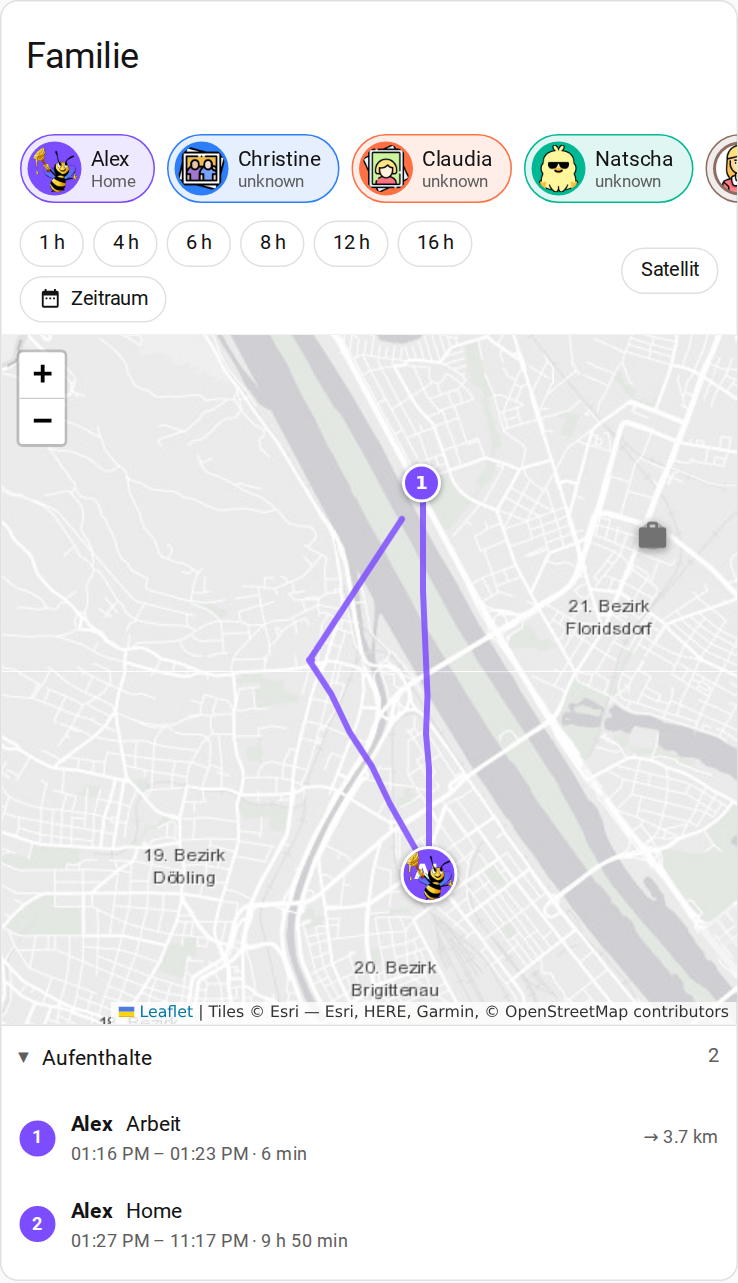
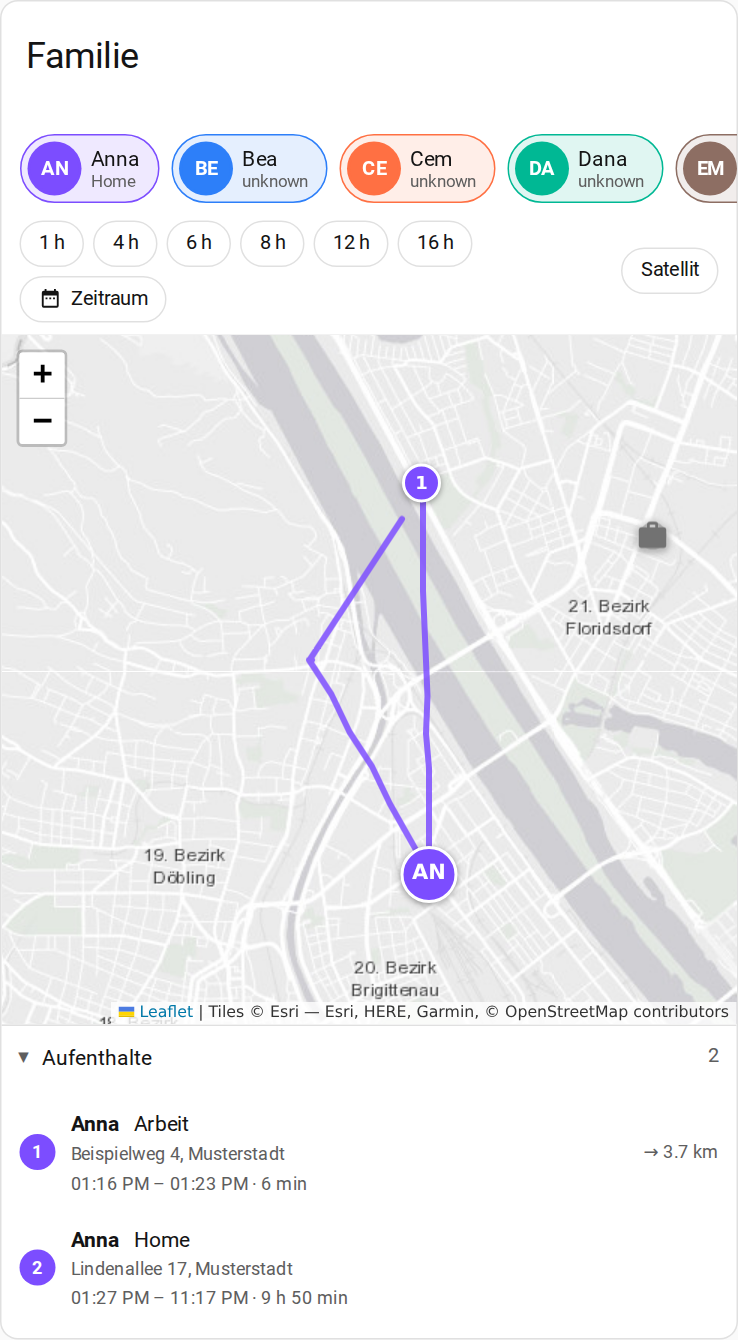
Adresse auch in Zonen, Chip-Rückfall, neue Screenshots, kürzeres README
Die Aufenthaltsliste zeigte innerhalb einer Zone nur deren Namen. Das war so
gedacht -- eine Zone trägt ja schon einen Namen, und jede Auflösung kostet eine
Nominatim-Anfrage -- führte aber dazu, dass die im README versprochene Adresse
bei Daten, die ausschließlich aus Zonen-Aufenthalten bestehen, nie auftauchte.
Neue Option zone_addresses: die Adresse steht dann als zweite Zeile unter dem
Zonennamen. Voreingestellt aus, damit niemand ungefragt Anfragen erzeugt.

Der Chip fällt jetzt wie der Kartenmarker auf die Initialen zurück. Lud das
Profilbild nicht, zeichnete der Browser sein Symbol für ein kaputtes Bild --
dieselbe Lücke, die im Marker schon geschlossen war.

Die Screenshots sind neu aufgenommen, mit erfundenen Namen und Adressen: in der
Doku haben weder die Namen der Familie noch ihre Wohnadresse etwas verloren.
Ersetzt wurde im Browser vor der Aufnahme, an Home Assistant selbst ist nichts
geändert.

Das README ist von 141 auf 117 Zeilen gekürzt. Der ASCII-Block mit der
Beispielliste ist entfallen: Er stimmte nicht mit der Darstellung in der App
überein, und die beiden Screenshots zeigen dasselbe genauer.

diff --git a/src/family-tracking-card.ts b/src/family-tracking-card.ts
@@ -521,9 +521,11 @@ export class FamilyTrackingCard extends LitElement {
   private async _resolveLabels(token: number): Promise<void> {
     if (this._config?.geocode === false) return;
 
+    const includeZones = this._config?.zone_addresses ?? DEFAULTS.zone_addresses;
+
     for (const track of Object.values(this._tracks)) {
       for (const stay of staysOf(track.segments)) {
-        if (stay.zone) continue;
+        if (stay.zone && !includeZones) continue;
         const key = cacheKeyFor(stay.lat, stay.lon);
         if (this._labels[key]) continue;
 
@@ -540,6 +542,18 @@ export class FamilyTrackingCard extends LitElement {
   private _labelOf(stay: Stay): string {
     if (stay.zone) return this._zoneName(stay.zone);
     return this._labels[cacheKeyFor(stay.lat, stay.lon)] ?? formatCoordinates(stay.lat, stay.lon);
+  }
+
+  /**
+   * The street address for a stay whose headline is already a zone name, or
+   * nothing. Only ever filled when `zone_addresses` is on, and only once the
+   * lookup has come back -- the row renders without it in the meantime rather
+   * than jumping once it arrives.
+   */
+  private _addressOf(stay: Stay): string | undefined {
+    if (!stay.zone) return undefined;
+    if (!(this._config?.zone_addresses ?? DEFAULTS.zone_addresses)) return undefined;
+    return this._labels[cacheKeyFor(stay.lat, stay.lon)];
   }
 
   /** `home` and `not_home` are technical states; show what a zone is called. */
@@ -871,9 +885,8 @@ export class FamilyTrackingCard extends LitElement {
         aria-pressed=${visible ? "true" : "false"}
       >
         <span class="avatar">
-          ${picture
-            ? html`<img src=${picture} alt="" />`
-            : html`<span>${initials(this._name(person))}</span>`}
+          <span>${initials(this._name(person))}</span>
+          ${picture ? html`<img src=${picture} alt="" />` : nothing}
         </span>
         <span class="person-text">
           <span class="person-name">${this._name(person)}</span>
@@ -926,6 +939,9 @@ export class FamilyTrackingCard extends LitElement {
                   <span class="stay-person">${this._name(entry.person)}</span>
                   ${this._labelOf(entry.stay)}
                 </span>
+                ${this._addressOf(entry.stay)
+                  ? html`<span class="stay-address">${this._addressOf(entry.stay)}</span>`
+                  : nothing}
                 <span class="stay-meta">
                   ${formatSpan(entry.stay.start, entry.stay.end, locale)} ·
                   ${formatDuration(entry.stay.end - entry.stay.start)}
@@ -1006,6 +1022,7 @@ export class FamilyTrackingCard extends LitElement {
     }
 
     .avatar {
+      position: relative;
       width: 32px;
       height: 32px;
       border-radius: 50%;
@@ -1021,7 +1038,12 @@ export class FamilyTrackingCard extends LitElement {
       box-shadow: 0 0 0 2px var(--ftc-person-color, var(--ftc-track-color));
     }
 
+    /* Same as the map marker: the initials sit underneath and the picture goes
+       over them, so a picture that fails to load leaves a readable chip rather
+       than a broken image icon. */
     .avatar img {
+      position: absolute;
+      inset: 0;
       width: 100%;
       height: 100%;
       object-fit: cover;
@@ -1313,9 +1335,16 @@ export class FamilyTrackingCard extends LitElement {
     }
 
     .stay-meta,
+    .stay-address,
     .stay-trip {
       font-size: 12px;
       color: var(--secondary-text-color);
+    }
+
+    .stay-address {
+      overflow: hidden;
+      text-overflow: ellipsis;
+      white-space: nowrap;
     }
 
     .hint {

diff --git a/src/const.ts b/src/const.ts
@@ -326,6 +326,8 @@ export const DEFAULTS = {
   // Off by default: an existing card must not suddenly grow circles on its map.
   show_zones: false,
   geocode: true,
+  // Aus: der Zonenname genügt meistens, und jede Auflösung kostet eine Anfrage.
+  zone_addresses: false,
 };
 
 /** A tile source entered by hand, in the spirit of map-card's tile_layer_url. */
@@ -497,6 +499,7 @@ export const EDITOR_SCHEMA = [
       { name: "show_stays", selector: { boolean: {} } },
       { name: "show_zones", selector: { boolean: {} } },
       { name: "geocode", selector: { boolean: {} } },
+      { name: "zone_addresses", selector: { boolean: {} } },
     ],
   },
   { name: "geocode_email", selector: { text: { type: "email" } } },

diff --git a/src/types.ts b/src/types.ts
@@ -76,6 +76,12 @@ export interface FamilyTrackingCardConfig extends LovelaceCardConfig {
   /** Zones the map leaves out, stored the same way round as `hidden_persons`. */
   hidden_zones?: string[];
   geocode?: boolean;
+  /**
+   * Also resolve an address for stays that already sit inside a zone, shown as
+   * a second line under the zone name. Off by default: a zone already carries
+   * the name the user gave it, and every extra lookup costs a Nominatim request.
+   */
+  zone_addresses?: boolean;
   /** Optional contact address appended to Nominatim requests (their usage policy). */
   geocode_email?: string;
 }

diff --git a/src/editor.ts b/src/editor.ts
@@ -32,6 +32,7 @@ const LABELS: Record<string, string> = {
   show_stays: "Aufenthaltsliste anzeigen",
   show_zones: "Zonen auf der Karte anzeigen",
   geocode: "Adressen auflösen (Nominatim)",
+  zone_addresses: "Adresse auch innerhalb von Zonen",
   geocode_email: "Kontakt-Adresse für Nominatim",
 };
 
@@ -50,6 +51,7 @@ export class FamilyTrackingCardEditor extends LitElement implements LovelaceCard
       show_stays: DEFAULTS.show_stays,
       show_zones: DEFAULTS.show_zones,
       geocode: DEFAULTS.geocode,
+      zone_addresses: DEFAULTS.zone_addresses,
       ...this._config,
     };
   }

diff --git a/test/tile-styles.test.ts b/test/tile-styles.test.ts
@@ -320,7 +320,7 @@ describe("Editor-Schema", () => {
     const names = ((grid as { schema: readonly { name: string }[] }).schema ?? []).map(
       (e) => e.name
     );
-    deepStrictEqual([...names], ["show_stays", "show_zones", "geocode"]);
+    deepStrictEqual([...names], ["show_stays", "show_zones", "geocode", "zone_addresses"]);
   });
 
   it("nennt die Altlasten, die beim Speichern entfernt werden", () => {

diff --git a/README.md b/README.md
@@ -4,53 +4,38 @@
 [![Release](https://img.shields.io/github/v/release/Snaker-L/family-tracking-card)](https://github.com/Snaker-L/family-tracking-card/releases)
 [![License: MIT](https://img.shields.io/badge/License-MIT-green.svg)](LICENSE)
 
-<img src="https://raw.githubusercontent.com/Snaker-L/family-tracking-card/main/docs/family-tracking-map.svg" alt="Four people on a map, each with their own colour and route, around a home zone" width="680">
-
 A Lovelace card that puts every Home Assistant person on one map and turns their
-location history into a **readable list of stays** instead of raw coordinates:
-
-```
-1  Home                 06:12 – 07:48 · 1 h 36 min    → 8.4 km
-2  Hauptstraße 12, Wien 08:03 – 09:47 · 1 h 44 min    → 2.1 km
-3  Work                 10:02 – 17:30 · 7 h 28 min
-```
+location history into a readable list of stays instead of raw coordinates.
 
 <p>
-  <img src="https://raw.githubusercontent.com/Snaker-L/family-tracking-card/main/docs/screenshot-card.png" alt="The card: person chips, range buttons, a map with one person's track, and the stay list below" width="380">
-  <img src="https://raw.githubusercontent.com/Snaker-L/family-tracking-card/main/docs/screenshot-satellite.jpg" alt="The same card on satellite tiles, showing that the view is kept when switching" width="380">
+  <img src="https://raw.githubusercontent.com/Snaker-L/family-tracking-card/main/docs/screenshot-card.png" alt="The card: person chips, range buttons, a map with a track, and the stay list with addresses below" width="370">
+  <img src="https://raw.githubusercontent.com/Snaker-L/family-tracking-card/main/docs/screenshot-satellite.jpg" alt="The same card on satellite tiles, with the view unchanged" width="370">
 </p>
 
 - Every person at once, each in their own colour, with chips to show and hide them
-- Preset ranges, plus a calendar for an exact window: one day, or from date and
-  time to date and time
+- Preset ranges plus a calendar for an exact window — one day, or date and time to date and time
 - Street and satellite tiles, switchable above the map, without losing pan or zoom
+- Stays with arrival, departure, duration and the distance travelled after them
 - Addresses resolved through Nominatim, cached and rate limited
-- Zones drawn as circles, with a per-zone icon and colour
+- Zones as circles, with a per-zone icon and colour
 - Full GUI editor — no YAML required
 
 ## Install
 
-### HACS
-
 [![Open your Home Assistant instance and open a repository inside the Home Assistant Community Store.](https://my.home-assistant.io/badges/hacs_repository.svg)](https://my.home-assistant.io/redirect/hacs_repository/?owner=Snaker-L&repository=family-tracking-card&category=dashboard)
 
-The button adds this repository to HACS on your own instance. Then click
-**Download**; HACS registers the resource for you.
-
-Adding it by hand: HACS → Dashboard → ⋮ → *Custom repositories* → URL
+The button adds this repository to HACS on your own instance; then click
+**Download**. By hand: HACS → Dashboard → ⋮ → *Custom repositories* → URL
 `https://github.com/Snaker-L/family-tracking-card`, category **Dashboard**.
 
-### Manual
-
-1. Download `family-tracking-card.js` from the
-   [latest release](https://github.com/Snaker-L/family-tracking-card/releases/latest)
-   into `config/www/`.
-2. Settings → Dashboards → ⋮ → Resources → Add resource:
-   URL `/local/family-tracking-card.js`, type **JavaScript module**.
+Without HACS: take `family-tracking-card.js` from the
+[latest release](https://github.com/Snaker-L/family-tracking-card/releases/latest),
+drop it in `config/www/`, and add `/local/family-tracking-card.js` as a
+**JavaScript module** under Settings → Dashboards → ⋮ → Resources.
 
 ## Usage
 
-Add the card from the picker and configure it in the editor. In YAML, this is
+Add the card from the picker and set it up in the editor. In YAML this is
 enough — every person is included by default:
 
 ```yaml
@@ -73,85 +58,59 @@ views:
 | Option | Type | Default | Meaning |
 |---|---|---|---|
 | `title` | string | – | Card header |
-| `time_ranges` | list | `[1, 4, 6, 8, 12, 16]` | Preset ranges, in hours; the calendar is always available |
+| `time_ranges` | list | `[1, 4, 6, 8, 12, 16]` | Preset ranges in hours; the calendar is always there |
 | `map_height` | number \| `fill` | `480` | Height in pixels, or fill the space the card is given |
 | `street_style` | see below | `esri_gray` | Street tiles |
 | `satellite_style` | see below | `esri_imagery` | Satellite tiles |
-| `custom_street` | map | – | Own tile URL, when `street_style: custom` |
-| `custom_satellite` | map | – | Own tile URL, when `satellite_style: custom` |
+| `custom_street` / `custom_satellite` | map | – | Own tile URL, when the style is `custom` |
 | `person_colors` | map | palette | Colour per entity id, e.g. `person.anna: "#7c4dff"` |
 | `hidden_persons` | list | `[]` | Persons the card leaves out entirely |
 | `show_stays` | boolean | `true` | Stay list below the map |
 | `show_zones` | boolean | `false` | Draw zones as circles with their icon |
-| `zone_icons` | map | – | Icon per zone, e.g. `zone.school: mdi:school` |
-| `zone_colors` | map | – | Icon and circle colour per zone |
+| `zone_icons` / `zone_colors` | map | – | Icon and colour per zone |
 | `hidden_zones` | list | `[]` | Zones the card leaves out |
 | `geocode` | boolean | `true` | Resolve addresses via Nominatim |
+| `zone_addresses` | boolean | `false` | Also show an address for stays inside a zone |
 | `geocode_email` | string | – | Contact address, see the Nominatim usage policy |
 
-`hidden_persons` and `hidden_zones` store what is *excluded*, so anything you add
-to Home Assistant later shows up instead of silently going missing.
+`hidden_persons` and `hidden_zones` store what is *excluded*, so anything you
+add to Home Assistant later shows up instead of going missing.
 
 ### Tile styles
 
-**`street_style`** — `osm`, `esri_gray` (follows your theme), `esri_streets`,
+`street_style`: `osm`, `esri_gray` (follows your theme), `esri_streets`,
 `esri_topo`, `esri_relief`, `osm_hot`, `opentopo`, `basemap_at`,
 `basemap_at_gray`, `custom`
 
-**`satellite_style`** — `esri_imagery`, `esri_hybrid`, `basemap_at_ortho`,
+`satellite_style`: `esri_imagery`, `esri_hybrid`, `basemap_at_ortho`,
 `basemap_at_ortho_labels`, `custom`
 
-The `basemap_at` styles cover Austria only. A custom source takes a URL plus
-optional `subdomains`, `attribution`, `max_zoom` and `referrer_policy`:
-
-```yaml
-street_style: custom
-custom_street:
-  url: https://tile.example.org/{z}/{x}/{y}.png
-  attribution: © Example
-```
-
-If OpenStreetMap tiles come back as a "blocked" image, that is the missing
-referrer, not the URL: Home Assistant sends `Referrer-Policy: no-referrer`, and
-OSM rejects those requests. The built-in `osm` style already overrides it; for a
-custom source, set `referrer_policy: origin`. Be aware this reveals your
-instance host to the tile provider.
+The `basemap_at` styles cover Austria only. A custom source takes a `url` plus
+optional `subdomains`, `attribution`, `max_zoom` and `referrer_policy`.
 
 ## Good to know
 
-- **Recorder retention.** By default the recorder keeps only 10 days, so longer
-  ranges will come up empty. Raise `purge_keep_days` if you need more.
-- **Nominatim.** Its usage policy allows one request per second and requires
-  caching. The card does both: requests are serialised, results live in
-  `localStorage` for 30 days. A browser cannot set `User-Agent`, so the card
-  identifies itself through the referer and, optionally, `geocode_email`.
-  The cache is per device — every browser geocodes once for itself.
-- **Person pictures** come from the person entity. Without one, the card falls
-  back to initials on a coloured disc — set a picture under Settings → People.
-- **The map only re-frames when you change who is on it.** Panning and zooming
-  survive a new time range, incoming positions, resolved addresses and a switch
-  between street and satellite — so you can zoom into a street and then walk
-  through the day with the range buttons. Only the person chips move the view.
-- **A range that ends in the past stops there.** The presets follow the clock
-  and keep appending the live position; a window picked from the calendar does
-  not, so the track ends where the data ends instead of jumping to wherever
-  somebody is right now.
-- **Stays inside a known zone** come straight from the state changes, so arrival
-  and departure are exact. Only the parts outside any zone go through
-  clustering, which is why those are marked differently on the map.
+- **The recorder keeps 10 days by default**, so longer ranges come up empty.
+  Raise `purge_keep_days` if you need more.
+- **A stay inside a zone is exact** — arrival and departure come from the state
+  changes. Only the parts outside any zone are clustered, which is why those
+  markers look different.
+- **The map re-frames only when you change who is on it.** A new time range,
+  incoming positions and switching to satellite all leave your view alone.
+- **Nominatim allows one request per second and requires caching.** The card
+  does both; results live in `localStorage` for 30 days, per device. A browser
+  cannot set `User-Agent`, so `geocode_email` is how you identify yourself.
+- **Person pictures** come from the person entity; without one you get initials.
 
 ## Development
 
 ```bash
-yarn install
-yarn build          # bundle to dist/
-yarn test           # unit tests
-yarn typecheck
+yarn install && yarn build     # bundle to dist/
+yarn test && yarn typecheck
 ```
 
-`dev/ha.sh up` starts a Home Assistant container with this repository's `dist/`
-mounted, so a rebuild plus a refresh is the whole loop. See `dev/` for the
-helper scripts.
+`dev/ha.sh up` starts a Home Assistant container with this repository's
+`dist/` mounted. See `dev/` for the rest.
 
 ## License
 
